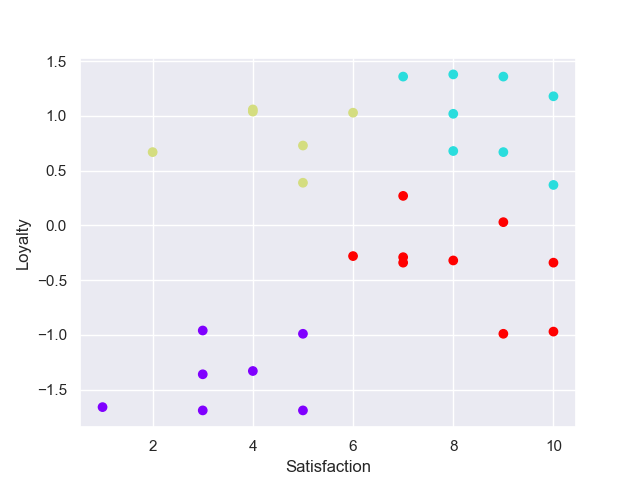
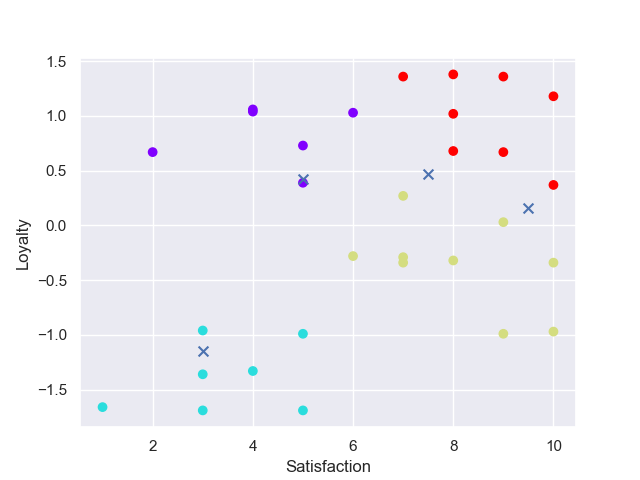
add centriod to cluster graph

diff --git a/cluster (decide num of cluster & knowing use of clusters)/clutserprac.py b/cluster (decide num of cluster & knowing use of clusters)/clutserprac.py
@@ -34,6 +34,11 @@ cluster['cluspred'] = kmeans.fit_predict(xscale)
 
 plt.scatter(cluster['Satisfaction'], cluster['Loyalty'],
             c=cluster['cluspred'], cmap='rainbow')
+
+kmeans_unscale = KMeans(n_clusters=4).fit(x)
+centroids = kmeans_unscale.cluster_centers_
+plt.scatter(centroids[:, 0], centroids[:, 1], marker="x", c='b', s=50)
+
 plt.xlabel("Satisfaction")
 plt.ylabel("Loyalty")
 plt.savefig("clusters.png")
